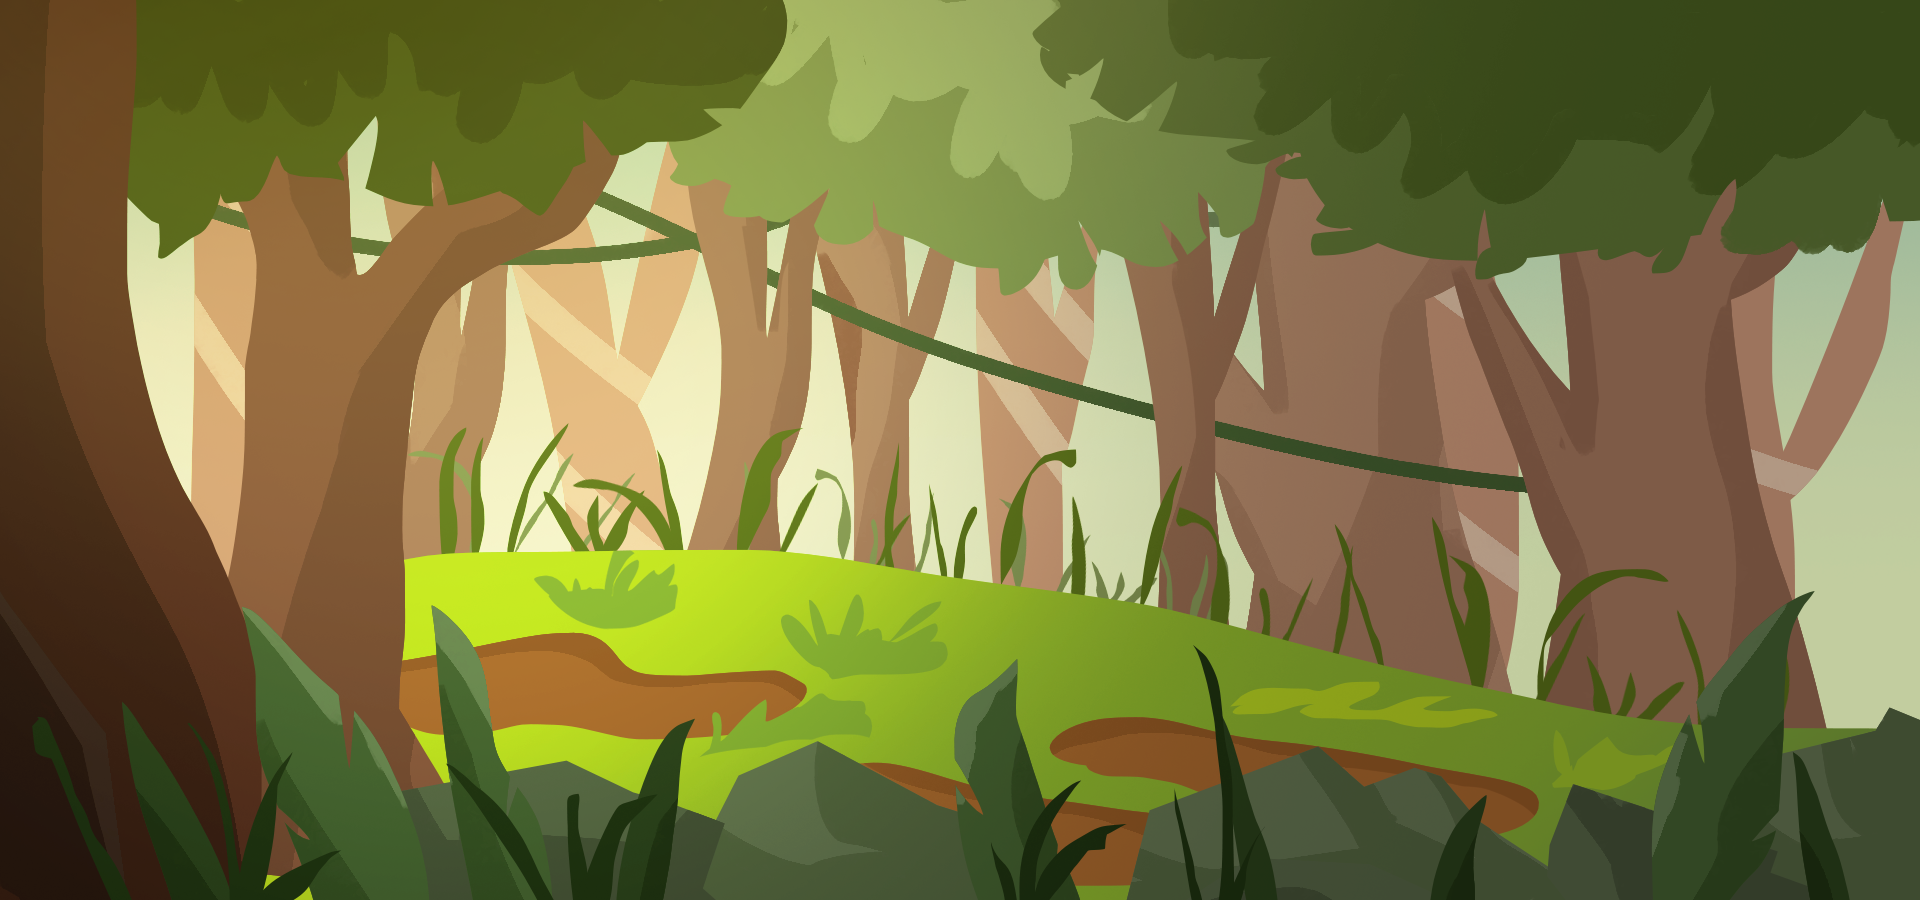
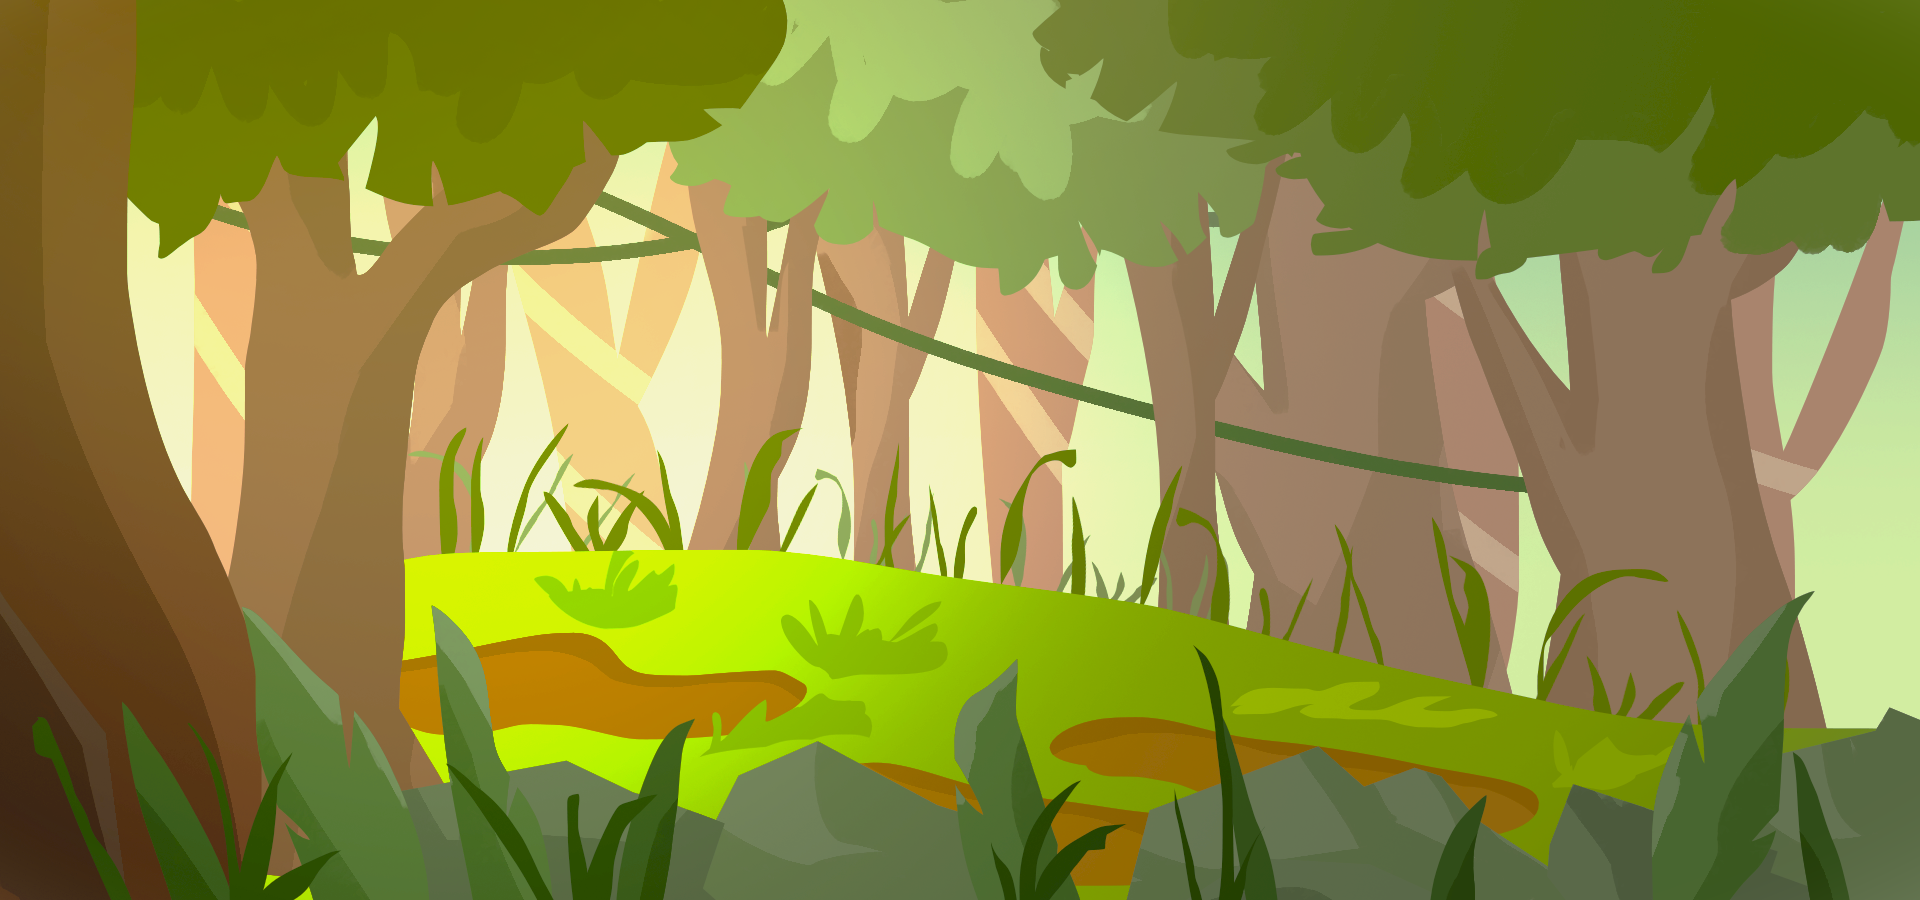
Fix: 환경 조건 모니터링 가끔씩 딜레이되는 문제 해결 / 서버 통신 위해 변수명 수정 - UserPlantRegister.js 에서 현재 주석 처리된 부분은 서버와 통신 후 JS 서비스 API 호출용 - 해당 부분은 지금 임의의 값을 기입해 JS 서비스 API 호출만을 하는 임시 디버깅용

diff --git a/gardening_react/src/pages/UserPlantRegister.js b/gardening_react/src/pages/UserPlantRegister.js
@@ -25,7 +25,7 @@ const UserPlantRegister = () => {
   useEffect(() => {
     const fetchPlantInfo = async () => {
       try {
-        const response = await axios.get('/api/plantinfo');
+        const response = await axios.get('http://52.79.201.44:8080/api/plantinfo');
         setPlantList(response.data);
       } catch (error) {
         console.log(error);
@@ -72,7 +72,7 @@ const UserPlantRegister = () => {
     };
   
     try {
-      const response = await axios.post('/api/userplant/register', plantData);
+      const response = await axios.post('http://52.79.201.44:8080/api/userplant/register', plantData);
 
       if (response.status === 201) {
         console.log('UserPlant registered successfully');
@@ -92,50 +92,94 @@ const UserPlantRegister = () => {
     }
   };    
 
-  useEffect(() => {
-    if (selectedPlantId !== null && plantList.length > 0) {
-      const serviceURL = "luna://com.team17.homegardening.service/start";
+  // useEffect(() => {
+  //   if (selectedPlantId !== null && plantList.length > 0) {
+  //     const serviceURL = "luna://com.team17.homegardening.service/start";
       
-      bridge.onservicecallback = function (msg) {
-          const response = JSON.parse(msg);
-          if (response.success) {
-            console.log("Luna service response success",);
-          }
-      };
-      const payload = {
-        "plantId": selectedPlantId,
-        "plantName": plantName,
-        "plantBirthDate": plantBirthdate,
-        "scientificName": plantList[selectedPlantId].scientificName,
-        "shortDescription": plantList[selectedPlantId].shortDescription,
-        "maxLevel": plantList[selectedPlantId].maxLevel,
-        "imageUrls": {
-          "normal": plantList[selectedPlantId].imageUrls.normal,
-          "happy": plantList[selectedPlantId].imageUrls.happy,
-          "sad": plantList[selectedPlantId].imageUrls.sad,
-          "angry": plantList[selectedPlantId].imageUrls.angry,
-          "underWater": plantList[selectedPlantId].imageUrls.underWater,
-          "overWater": plantList[selectedPlantId].imageUrls.overWater,
-          "underLight": plantList[selectedPlantId].imageUrls.underLight,
-          "overLight": plantList[selectedPlantId].imageUrls.overLight,
-          "underTemperature": plantList[selectedPlantId].imageUrls.underTemperature,
-          "overTemperature": plantList[selectedPlantId].imageUrls.overTemperature,
-          "underHumidity": plantList[selectedPlantId].imageUrls.underHumidity,
-          "overHumidity": plantList[selectedPlantId].imageUrls.overHumidity,
-        },
-        "properEnvironments": {
-          "waterValue": plantList[selectedPlantId].properEnvironemnts.waterValue,
-          "waterRange": plantList[selectedPlantId].properEnvironemnts.waterRange,
-          "lightValue": plantList[selectedPlantId].properEnvironemnts.lightValue,
-          "lightRange": plantList[selectedPlantId].properEnvironemnts.lightRange,
-          "temperatureValue": plantList[selectedPlantId].properEnvironemnts.temperatureValue,
-          "temperatureRange": plantList[selectedPlantId].properEnvironemnts.temperatureRange,
-          "humidityValue": plantList[selectedPlantId].properEnvironemnts.humidityValue,
-          "humidityRange": plantList[selectedPlantId].properEnvironemnts.humidityRange,
+  //     bridge.onservicecallback = function (msg) {
+  //         const response = JSON.parse(msg);
+  //         if (response.success) {
+  //           console.log("Luna service response success",);
+  //         }
+  //     };
+  //     const payload = {
+  //       "plantId": selectedPlantId,
+  //       "plantName": plantName,
+  //       "plantBirthDate": plantBirthdate,
+  //       "scientificName": plantList[selectedPlantId - 1].scientificName,
+  //       "shortDescription": plantList[selectedPlantId - 1].shortDescription,
+  //       "maxLevel": plantList[selectedPlantId - 1].maxLevel,
+  //       "imageUrls": {
+  //         "normal": plantList[selectedPlantId - 1].plantImage.normalImageUrl,
+  //         "happy": plantList[selectedPlantId - 1].plantImage.happyImageUrl,
+  //         "sad": plantList[selectedPlantId - 1].plantImage.sadImageUrl,
+  //         "angry": plantList[selectedPlantId - 1].plantImage.angryImageUrl,
+  //         "underWater": plantList[selectedPlantId - 1].plantImage.underWaterImageUrl,
+  //         "overWater": plantList[selectedPlantId - 1].plantImage.overWaterImageUrl,
+  //         "underLight": plantList[selectedPlantId - 1].plantImage.underLightImageUrl,
+  //         "overLight": plantList[selectedPlantId - 1].plantImage.overLightImageUrl,
+  //         "underTemperature": plantList[selectedPlantId - 1].plantImage.underTemperatureImageUrl,
+  //         "overTemperature": plantList[selectedPlantId - 1].plantImage.overTemperatureImageUrl,
+  //         "underHumidity": plantList[selectedPlantId - 1].plantImage.underHumidityImageUrl,
+  //         "overHumidity": plantList[selectedPlantId - 1].plantImage.overHumidityImageUrl,
+  //       },
+  //       "properEnvironments": {
+  //         "waterValue": plantList[selectedPlantId - 1].plantEnvironment.properWaterValue,
+  //         "waterRange": plantList[selectedPlantId - 1].plantEnvironment.properWaterRange,
+  //         "lightValue": plantList[selectedPlantId - 1].plantEnvironment.properLightValue,
+  //         "lightRange": plantList[selectedPlantId - 1].plantEnvironment.properLightRange,
+  //         "temperatureValue": plantList[selectedPlantId - 1].plantEnvironment.properTemperatureValue,
+  //         "temperatureRange": plantList[selectedPlantId - 1].plantEnvironment.properTemperatureRange,
+  //         "humidityValue": plantList[selectedPlantId - 1].plantEnvironment.properHumidityValue,
+  //         "humidityRange": plantList[selectedPlantId - 1].plantEnvironment.properHumidityRange,
+  //       }
+  //     }
+  //     bridge.call(serviceURL, JSON.stringify(payload));
+  //   }
+  // }, []);
+  
+  useEffect(() => {
+    const serviceURL = "luna://com.team17.homegardening.service/start";
+
+    bridge.onservicecallback = function (msg) {
+        const response = JSON.parse(msg);
+        if (response.success) {
+          console.log("Luna service response success",);
         }
+    };
+    const payload = {
+      "plantId": 1,
+      "plantName": "ya",
+      "plantBirthDate": "1999-01-28",
+      "scientificName": "cat",
+      "shortDescription": "hi",
+      "maxLevel": 10,
+      "imageUrls": {
+        "normal": "https://i.sstatic.net/Bzcs0.png",
+        "happy":"." ,
+        "sad":"." ,
+        "angry":"." ,
+        "underWater":"." ,
+        "overWater":"." ,
+        "underLight":"." ,
+        "overLight":"." ,
+        "underTemperature":"." ,
+        "overTemperature":"." ,
+        "underHumidity":"." ,
+        "overHumidity":"." ,
+      },
+      "properEnvironments": {
+        "waterValue": 50,
+        "waterRange": 10,
+        "lightValue": 100,
+        "lightRange": 50,
+        "temperatureValue": 30,
+        "temperatureRange": 3,
+        "humidityValue": 20,
+        "humidityRange": 5,
       }
-      bridge.call(serviceURL, JSON.stringify(payload));
     }
+    bridge.call(serviceURL, JSON.stringify(payload));
   }, []);
 
 

diff --git a/gardening_react/src/pages/MainPage.js b/gardening_react/src/pages/MainPage.js
@@ -5,7 +5,7 @@ import PlantAutocontrolModal from '../components/PlantAutocontrolModal';
 import CalendarModal from '../components/CalendarModal';
 import ControlLightModal from '../components/ControlLightModal';
 import ControlWaterModal from '../components/ControlWaterModal';
-import backgroundImage from '../img/background1.png';
+import backgroundImage from '../img/background.png';
 import goalImage from '../img/present.png';
 
 const MainPage = () => {
@@ -140,14 +140,6 @@ const MainPage = () => {
     gap: '4px'
   };
 
-  const calculateWidthSize = (originalSize, ratio) => {
-    return Math.round(window.innerWidth * ratio) || originalSize;
-  };
-
-  const calculateHeightSize = (originalSize, ratio) => {
-    return Math.round(window.innerHeight * ratio) || originalSize;
-  };
-
   const expBackgroundStyle = {
     boxShadow: '0px 4px 8px 0px rgba(101, 92, 128, 0.75)',
     height: '24px',
@@ -178,15 +170,23 @@ const MainPage = () => {
     transition: 'width 0.3s ease-in-out'
   };
 
+  const calculateWidthSize = (originalSize, ratio) => {
+    return Math.round(window.innerWidth * ratio) || originalSize;
+  };
+
+  const calculateHeightSize = (originalSize, ratio) => {
+    return Math.round(window.innerHeight * ratio) || originalSize;
+  };
+
   return (
     <div style = {{
-        padding: '140px',
-        backgroundImage: `url(${backgroundImage})`,
-        backgroundSize: 'cover', // 필요에 따라 배경 크기 조정
-        backgroundPosition: 'center', // 이미지를 중앙에 배치
-        backgroundRepeat: 'no-repeat', // 이미지를 반복하지 않음
-        height: '100vh' // 배경이 전체 뷰포트를 덮도록 설정
-      }}>
+      padding: '140px',
+      backgroundImage: `url(${backgroundImage})`,
+      backgroundSize: 'cover', // 필요에 따라 배경 크기 조정
+      backgroundPosition: 'center', // 이미지를 중앙에 배치
+      backgroundRepeat: 'no-repeat', // 이미지를 반복하지 않음
+      height: '100vh' // 배경이 전체 뷰포트를 덮도록 설정
+    }}>
       <div className="container d-flex justify-content-center vh-50" style={{ width: calculateWidthSize(500, 0.4), height: calculateHeightSize(100, 0.3) }}>
         <div className="d-flex flex-column align-items-center">
         <PlantConditionModal

diff --git a/gardening_react/src/pages/UserSignup.js b/gardening_react/src/pages/UserSignup.js
@@ -39,7 +39,7 @@ const UserSignup = () => {
         const birthdate = `${formatYear}-${formatMonth}-${formatDay}`;
         
         const userData = {
-            username: name,
+            name: name,
             gender: sex,
             nickname: nickname,
             birth: birthdate,
@@ -48,7 +48,7 @@ const UserSignup = () => {
         };
             
         try {
-            const response = await axios.post('/api/user', userData, {
+            const response = await axios.post('http://52.79.201.44:8080/api/user', userData, {
                 headers: {
                     'Content-Type': 'application/json'
                 }
